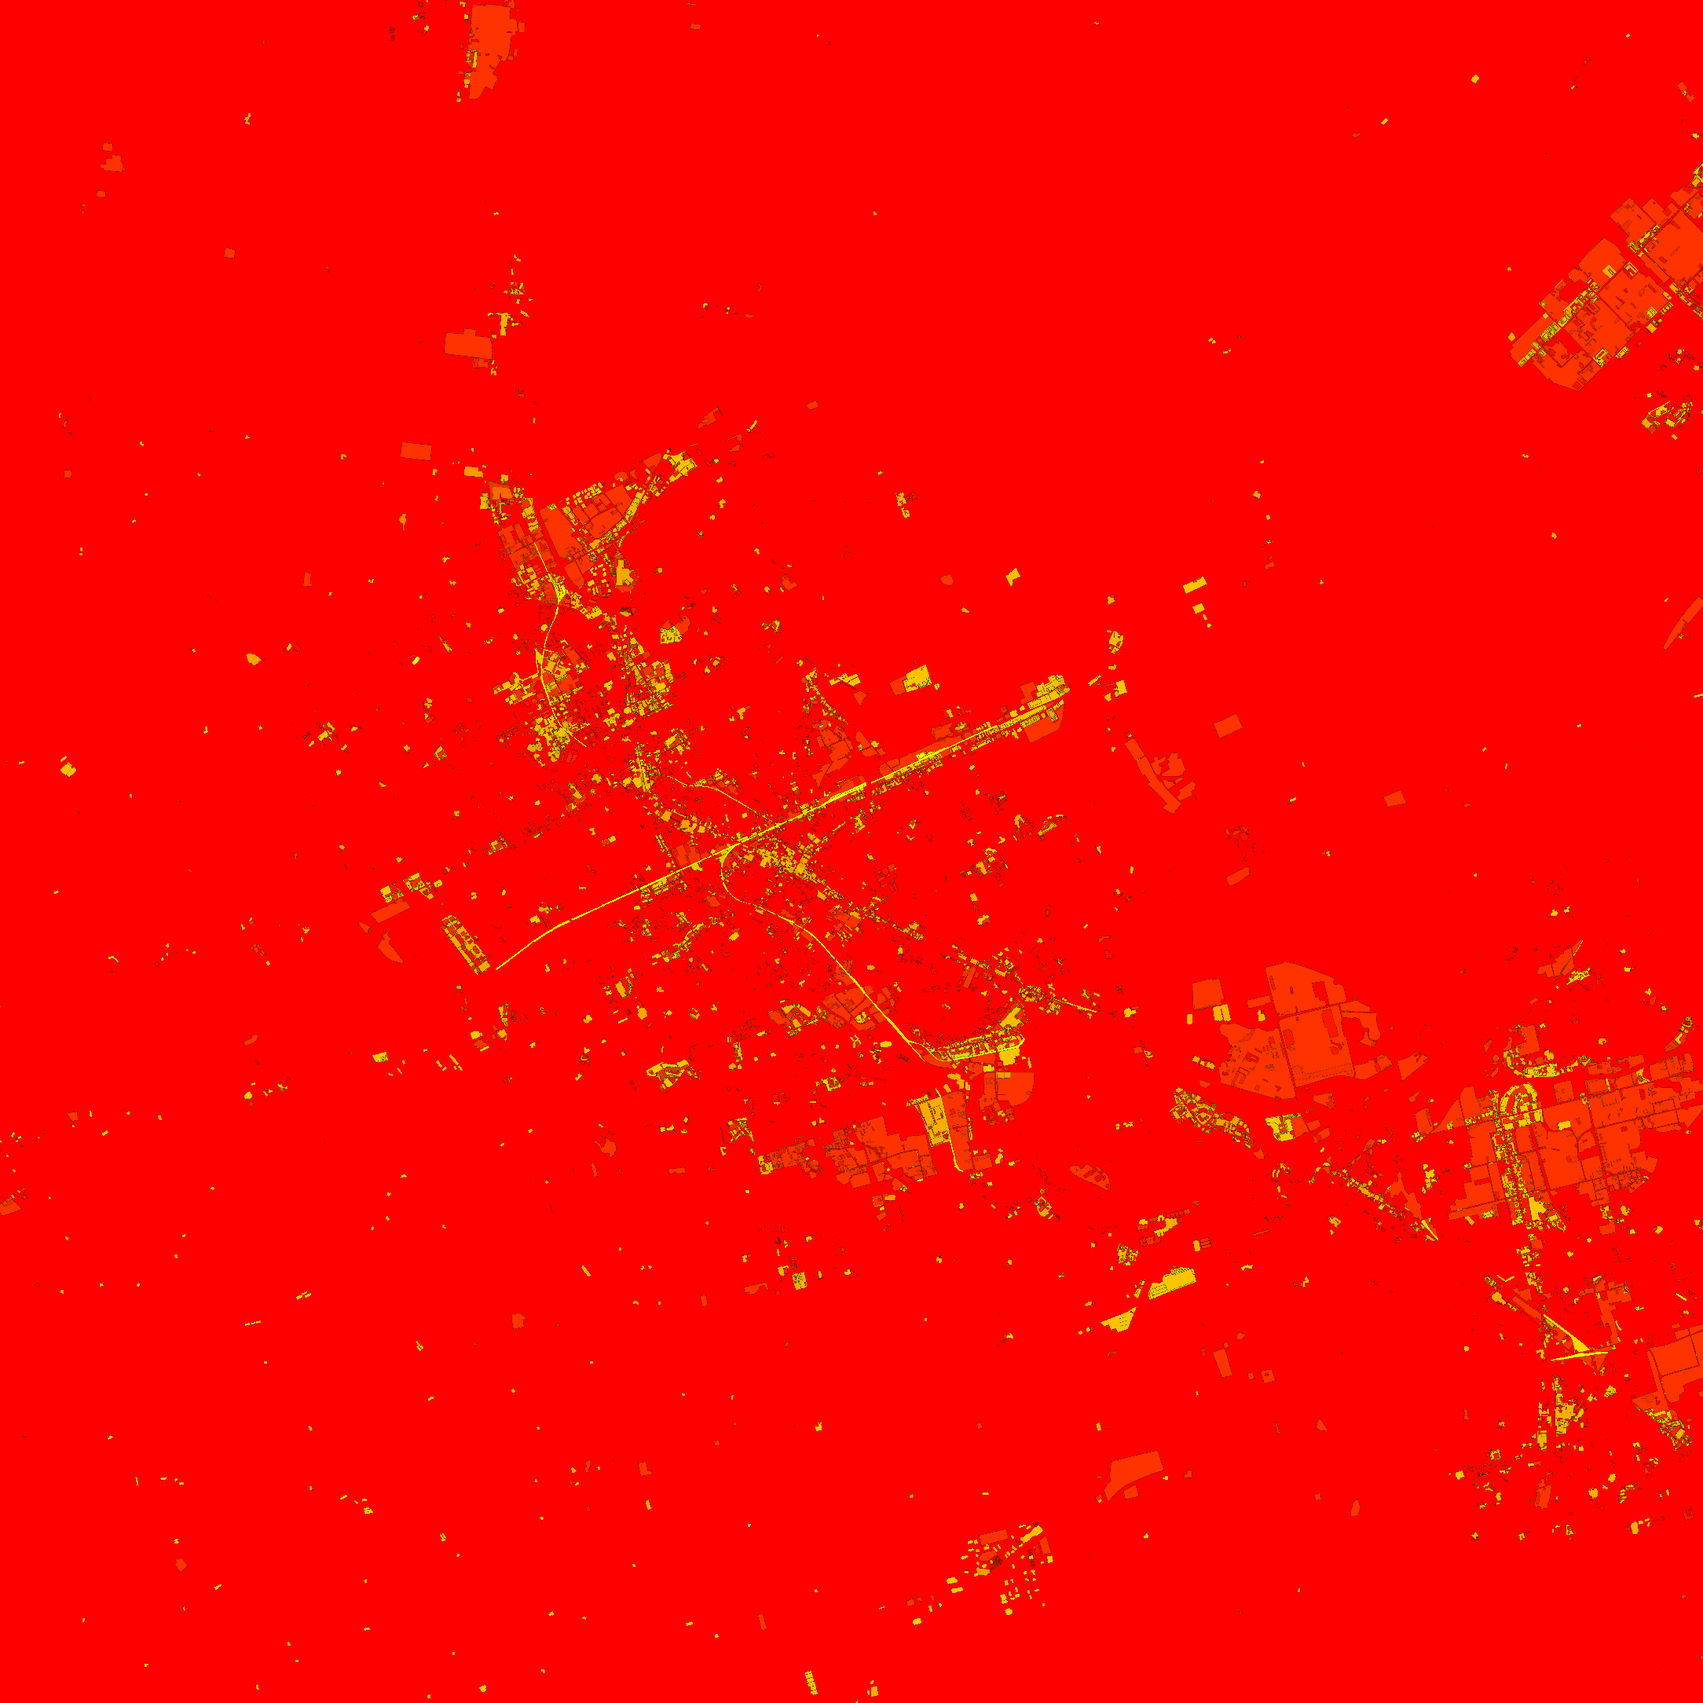
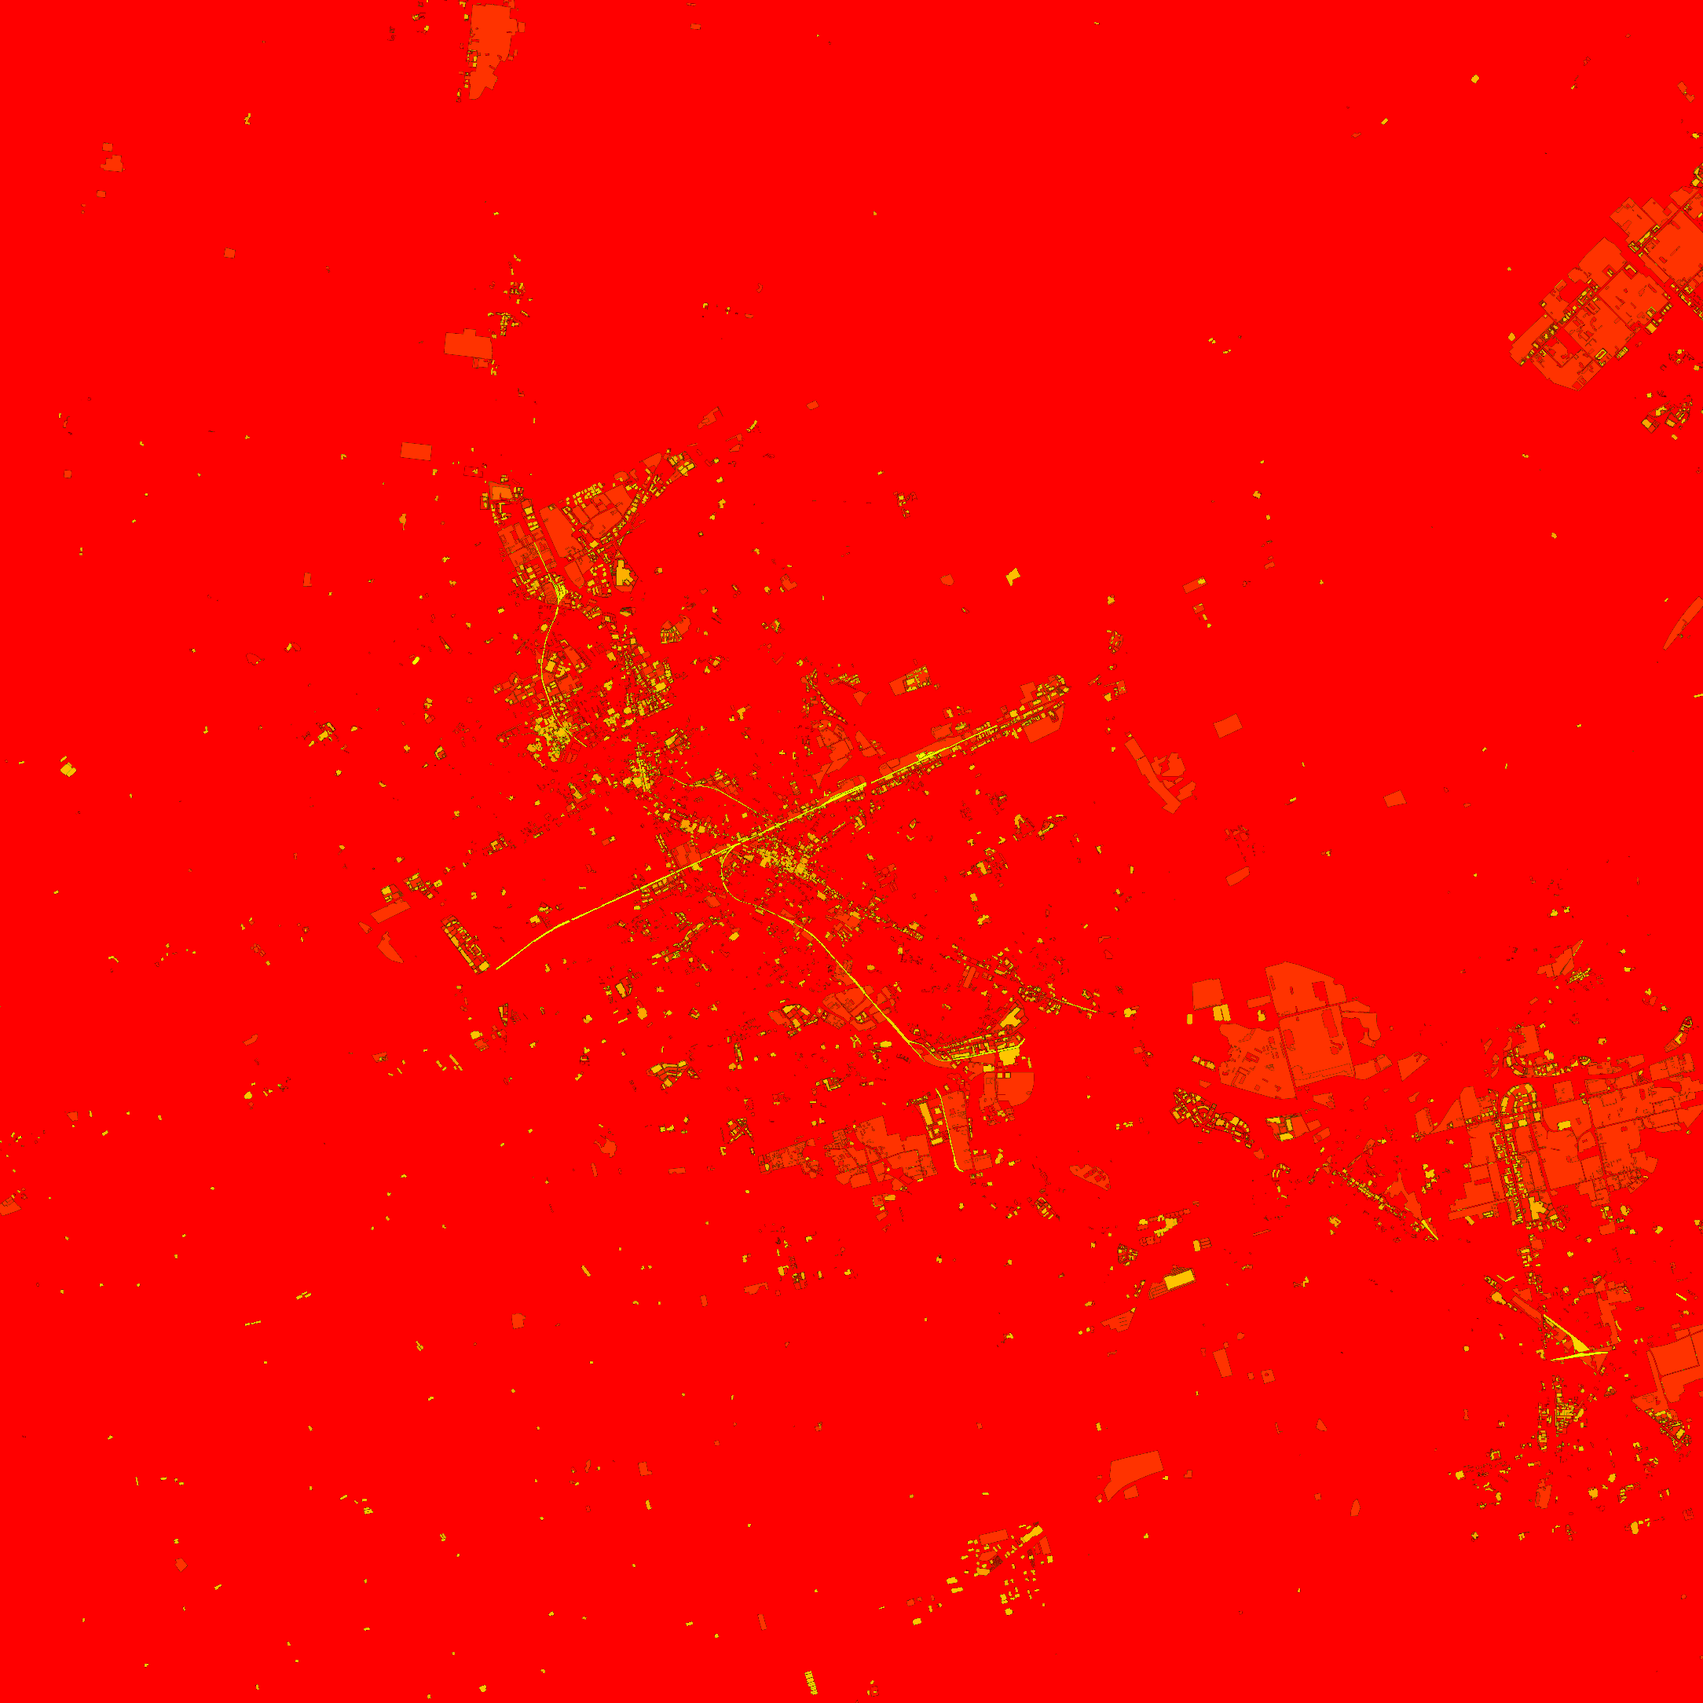
Auto KW: the new towers' skins; plaza car parks striped, with light standards and islands
Apartment towers of 8+ storeys in the student district (Columbia, Lester,
Sunview, Hickory, Regina, King N, Phillip) and downtown Kitchener take
white or light-grey precast, window wall with white slab edges, or charcoal
panel (world.js modernTower / towerLook, a few by OSM name), with full-height
stacks of a second panel colour at the corners and, on half, a stack of
coloured accent panels down the street face -- not brown brick or deep
blue curtain glass.

build_lots.py: retail/commercial landuse over 3000 m2 bakes as striped car
park in its own orientation, with a 4.5 m concrete storefront ring round
each building (mapped car parks still win): 12.5 -> 17.5 km2 of striping.
world.js lotLights: in big lots, every 13 bays on every other row seam, a
kerbed island with a light standard (two LED heads, glowing at night) and
a young tree on most (trees.js); traffic leaves those bays empty.

diff --git a/apps/autokw/src/world.js b/apps/autokw/src/world.js
@@ -341,6 +341,46 @@ const INDUSTRIAL_WALL = [
 ];
 const industrialWall = (bd) => tint(bd.seed, pickW(INDUSTRIAL_WALL, hash2(bd.seed, 133)), 0.16);
 
+// AUTO KW: the new towers. The student district round UW and Laurier
+// (Columbia, Lester, Sunview, Hickory, Regina, King N, Phillip -- ICON, Sage,
+// Luxe, One Columbia, the Houses on King) and downtown Kitchener's condos
+// (One Victoria, Charlie West, Young, DTK, City Centre) went up after 2008:
+// white and grey precast and window wall, panels in a second grey, and on
+// many a stack of coloured accent panels. [x0, x1, z0, z1] in world metres.
+const MODERN_ZONES = [[-5400, -3700, -3450, -2200], [-2100, -600, -500, 500]];
+/** An apartment tower of eight storeys or more in one of MODERN_ZONES, with no material from OSM. */
+function modernTower(bd) {
+  if (bd.style === 'campus' || bd.h < 24 || bd.kind || (bd.kw && (bd.kw.fam || bd.kw.poly || bd.kw.skip))) return false;
+  const lk = bd.look || 0;
+  if ((lk >> 2) & 7) return false;
+  if (!(lk & 32) && !(bd.kw && bd.kw.name && /Condos|Tower|House|Residence|Lofts/.test(bd.kw.name))) return false;
+  for (const [x0, x1, z0, z1] of MODERN_ZONES) if (bd.x > x0 && bd.x < x1 && bd.z > z0 && bd.z < z1) return true;
+  return false;
+}
+// white precast, light grey precast, window wall, charcoal panel
+const MODERN_FAMS = [
+  { m: 'masonry', c: [1.14, 1.14, 1.12], u: 13, v: 13 },
+  { m: 'masonry', c: [0.94, 0.94, 0.93], u: 14, v: 13.6 },
+  { m: 'glass', c: [0.66, 0.70, 0.73], u: 14, v: 13.6 },
+  { m: 'masonry', c: [0.42, 0.43, 0.45], u: 14, v: 13.6 },
+];
+// the second panel colour on each wall family, and the accents
+const MODERN_PANEL = [[0.46, 0.47, 0.49], [0.95, 0.95, 0.93], [0.93, 0.93, 0.91], [0.90, 0.90, 0.88]];
+const ACCENTS = [[0.88, 0.45, 0.16], [0.52, 0.74, 0.24], [0.78, 0.18, 0.16], [0.18, 0.48, 0.74], [0.95, 0.75, 0.15]];
+// a few by name: [family, accent index or -1]
+const TOWER_NAMED = { 'Sage II': [0, 0], 'Sage Condos I': [0, 0], 'Sage 5': [1, 0], 'Sage 6': [1, 0],
+  'Icon': [0, -1], 'Luxe Condos I': [3, -1], 'Luxe II': [3, -1], 'One Victoria': [2, -1], 'Charlie West': [0, -1],
+  'Duke Tower': [2, -1], 'Young Condos': [0, -1], 'City Centre Condos, Tower 1': [1, -1] };
+/** { fam, panel, accent|null } for a modernTower. */
+function towerLook(bd) {
+  if (bd._tl) return bd._tl;
+  const s = bd.seed, nm = bd.kw && bd.kw.name, N = nm && TOWER_NAMED[nm];
+  const p = hash2(s, 151);
+  const fam = N ? N[0] : p < 0.42 ? 0 : p < 0.66 ? 1 : p < 0.86 ? 2 : 3;
+  const ai = N ? N[1] : hash2(s, 152) < 0.5 ? Math.floor(hash2(s, 153) * ACCENTS.length) : -1;
+  return (bd._tl = { fam, panel: MODERN_PANEL[fam], accent: ai >= 0 ? ACCENTS[ai] : null });
+}
+
 // AUTO KW: where the hydro is overhead. Every arterial and regional road;
 // and the side streets of the places built before the lines went under
 // (Kitchener and Waterloo from the 1970s on buried them): downtown
@@ -4838,6 +4878,7 @@ float frLine(float o, float fw, float c, float w) {
       }
       yield; this._yt = performance.now();
       yield* this.meshProps(flat, glow, ch, cx, cz);
+      if (ch !== NO_CITY_CHUNK) this.lotLights(flat, glow, cx, cz);
       yield; this._yt = performance.now();
       yield* plantTrees(this, flat, ch, cx, cz, 1, ch === NO_CITY_CHUNK);
       this._occ = null;
@@ -7982,6 +8023,12 @@ float frLine(float o, float fw, float c, float w) {
     // grey stone/block, siding (painted), concrete/stucco, metal, glass.
     const lm = (bd.look || 0) >> 2 & 7;
     if (lm) return FAMS[[0, 2, 3, 0, 8, 4, 10, 1][lm]];
+    // The student towers round UW and Laurier and downtown Kitchener's new
+    // condos (modernTower): white and light-grey precast, a charcoal one, some
+    // window wall -- never the brown brick of the 1970s slabs, and not the
+    // deep blue curtain glass of an office tower. Their panels and accent
+    // colours are buildingDetail's (_towerPanels).
+    if (modernTower(bd)) return MODERN_FAMS[towerLook(bd).fam];
     // An apartment tower (OSM building=apartments, over ~10 storeys): the
     // student towers on Columbia, Lester, Sunview and King and the condos
     // downtown are white and grey precast with window wall (ICON, Sage, One
@@ -8766,6 +8813,9 @@ float frLine(float o, float fw, float c, float w) {
       if (h(12) < (apt ? 0.3 : 0.45)) this._balconies(flat, bd, c, h, t0, this._side(bd, (street + 2) % 4, t0.w, t0.d), floorsOf(t0, 24));
     }
 
+    // Auto KW: the new towers' panels, slab edges and accent stacks
+    if (modernTower(bd)) { this._towerPanels(flat, bd, c, h, t0, street, floorsOf(t0, 40)); note('towerPanels', street); }
+
     // --- shops: awnings over the bays, a false front ----------------------------
     if (c.plinthH > 2 && hash2(seed, 41) <= 0.55 && h(20) < 0.5 && this._awnings(flat, bd, c, h, S)) note('awnings', street);
     if (bd.style === 'lowrise' && bd.h < 9 && !glassy && c.tiers.length === 1 && h(21) < 0.28) {
@@ -8880,6 +8930,38 @@ float frLine(float o, float fw, float c, float w) {
       any = true;
     }
     return any;
+  }
+
+  /**
+   * AUTO KW: a new tower's skin (modernTower / towerLook). Precast or charcoal
+   * walls carry full-height stacks of the second panel colour at every corner;
+   * window wall carries a white slab edge at every floor. Many have one stack
+   * of coloured accent panels down the street face and its back. ~8 triangles
+   * a box, all in the chunk's flat mesh.
+   */
+  _towerPanels(flat, bd, c, h, t0, street, floors) {
+    const L = towerLook(bd), y0 = t0.y + 3.2, y1 = t0.y + t0.h - 0.4;
+    if (y1 - y0 < 8) return;
+    if (L.fam === 2) {
+      for (const y of floors) flat.box(bd.x, y - 0.3, bd.z, t0.w + 0.24, 0.32, t0.d + 0.24, bd.rot, L.panel, NOTOP);
+    } else {
+      for (let k = 0; k < 4; k++) {
+        const S = this._side(bd, k, t0.w, t0.d);
+        if (S.w < 8) continue;
+        const pw = clamp(S.w * 0.14, 1.6, 4.2);
+        // one corner of each face (the next face's other corner makes the L)
+        const [x, z] = S.off(S.w / 2 - pw / 2 + 0.1, S.d / 2 + 0.1);
+        flat.box(x, y0, z, pw, y1 - y0, 0.2, S.rot, L.panel, NOTOP);
+      }
+    }
+    if (!L.accent) return;
+    for (const k of [street, (street + 2) % 4]) {
+      const S = this._side(bd, k, t0.w, t0.d);
+      if (S.w < 10) continue;
+      const aw = clamp(S.w * 0.12, 1.4, 3.2), lx = (h(140) - 0.5) * (S.w - aw - 6);
+      const [x, z] = S.off(lx, S.d / 2 + 0.12);
+      flat.box(x, y0 + 3, z, aw, y1 - y0 - 3, 0.24, S.rot, L.accent, NOTOP);
+    }
   }
 
   /** Stacked balconies across one face: slab, underside, a glass or metal rail. */
@@ -9311,6 +9393,69 @@ float frLine(float o, float fw, float c, float w) {
    * a wire into nothing. All in the chunk's flat/glow builders: no draws.
    * Phone cost: ~170 triangles a pole with its span.
    */
+  /**
+   * AUTO KW: light standards in the big car parks. Square steel poles ~9 m
+   * on a concrete pier, a crossbar with two LED shoebox heads (the plazas,
+   * Conestoga, Fairview, the big boxes from the air and street level). On
+   * the seam between back-to-back rows of the lot's bay grid (the shader's
+   * and traffic.updateLotParked's: 2.6 m bays, 18 m modules, in the lot's
+   * frame), every 13 bays and every other module, and only where the lot
+   * carries on 20 m round the spot -- a strip mall's apron gets none. ~50
+   * triangles a pole into the chunk's flat mesh; the head glows at night.
+   */
+  lotLights(flat, glow, cx, cz) {
+    const city = this.city, seen = new Set(), x0 = cx * CHUNK, z0 = cz * CHUNK;
+    const S = cityStats.lotLights || (cityStats.lotLights = { poles: 0 });
+    const POLE = [0.36, 0.37, 0.38], PIER = [0.62, 0.61, 0.58], HEAD = [0.24, 0.25, 0.26];
+    const CURB = [0.66, 0.65, 0.62], ISLE = [0.20, 0.24, 0.12];
+    const isles = [];
+    this._lotIslands = isles; this._lotIslandsKey = this._ck;
+    for (let x = x0 + 4.5; x < x0 + CHUNK; x += 9) {
+      for (let z = z0 + 4.5; z < z0 + CHUNK; z += 9) {
+        const code = G.lotCodeAt(x, z);
+        if (!code || ((code - 1) / G.LOT_ANG | 0) !== 0) continue;   // striped parking only
+        const ang = ((code - 1) % G.LOT_ANG) / G.LOT_ANG * Math.PI;
+        const ux = Math.cos(ang), uz = Math.sin(ang);
+        const pu = x * ux + z * uz, pv = -x * uz + z * ux;
+        const iu = Math.round(pu / 33.8), iv = Math.round(pv / 36);
+        const key = code * 1e8 + iu * 1e4 + iv;
+        if (seen.has(key)) continue;
+        seen.add(key);
+        // the island's centre: the middle of bay 13 iu, on the seam
+        const cu = iu * 33.8 + 1.3, cv = iv * 36;
+        const wx = cu * ux - cv * uz, wz = cu * uz + cv * ux;
+        if (Math.floor(wx / CHUNK) !== cx || Math.floor(wz / CHUNK) !== cz) continue;
+        let big = G.lotCodeAt(wx, wz) === code;
+        for (const [du, dv] of [[20, 0], [-20, 0], [0, 14], [0, -14]]) {
+          if (!big) break;
+          big = G.lotCodeAt(wx + du * ux - dv * uz, wz + du * uz + dv * ux) === code;
+        }
+        if (!big || city.onRoad(wx, wz, 1.5) || this.inBuilding(wx, wz, 1.5) || city.jumpClear(wx, wz)
+          || this.cutDepth(wx, wz) > 0.3 || this.inDrawnLake(wx, wz)) continue;
+        const gy = G.terrainHeight(wx, wz);
+        // the kerbed island it stands in: one bay wide, across both rows
+        // (traffic.updateLotParked leaves that bay pair empty), a tree on most
+        flat.box(wx, gy - 0.25, wz, 2.3, 0.42, 10.2, ang, CURB, NOTOP);
+        flat.box(wx, gy + 0.15, wz, 2.0, 0.03, 9.9, ang, ISLE);
+        if (hash2(Math.round(wx), Math.round(wz) + 3) < 0.6) {
+          const t = hash2(Math.round(wx) + 5, Math.round(wz)) < 0.5 ? 3 : -3;
+          isles.push([wx - uz * t, wz + ux * t]);
+        }
+        flat.box(wx, gy - 0.1, wz, 0.5, 0.9, 0.5, ang, PIER, NOTOP);
+        flat.box(wx, gy + 0.8, wz, 0.2, 8.4, 0.2, ang, POLE, NOTOP);
+        flat.box(wx, gy + 9.1, wz, 2.6, 0.12, 0.12, ang, POLE);
+        for (const sg of [-1, 1]) {
+          const hx = wx + ux * sg * 1.25, hz = wz + uz * sg * 1.25;
+          flat.box(hx, gy + 8.95, hz, 0.75, 0.16, 0.5, ang, HEAD);
+          glow.box(hx, gy + 8.93, hz, 0.6, 0.03, 0.38, ang, [1.0, 0.97, 0.9]);
+        }
+        city.addObstacle(this._ck, wx, wz, 0.35);
+        for (const t of [-3.6, 3.6]) city.addObstacle(this._ck, wx - uz * t, wz + ux * t, 1.1);
+        S.poles++;
+      }
+    }
+  }
+
   hydroLine(flat, glow, e, a, b, px, pz, hydro, onCorner, ei, inPit) {
     const city = this.city, SPAN = 40;
     // canonical direction, so both orientations of a street agree

diff --git a/apps/autokw/src/trees.js b/apps/autokw/src/trees.js
@@ -1362,5 +1362,13 @@ export function* plantTrees(world, flat, ch, cx, cz, lod, pooled = false) {
       }
     }
   }
+  // AUTO KW: the car parks' kerbed islands (world.lotLights), one tree each:
+  // a young broadleaf, crown kept small so it overhangs no bay
+  if (lod === 1 && world._lotIslands && world._lotIslandsKey === ck) {
+    for (const [x, z] of world._lotIslands) {
+      const r = hash2(Math.round(x * 5) + 7, Math.round(z * 5) + 9);
+      plant(x, z, 6 + 3 * r, 2.0 + 0.8 * r, BROAD, T_STREET, 'street');
+    }
+  }
   world._treeRecs = recs.length ? Float32Array.from(recs) : null;
 }

diff --git a/apps/autokw/src/traffic.js b/apps/autokw/src/traffic.js
@@ -873,6 +873,9 @@ export class TrafficSystem {
         const pu = x * ux + z * uz, pv = -x * uz + z * ux;
         const bu = Math.floor(pu / 2.6), m = Math.floor(pv / 18);
         const row = ((pv % 18) + 18) % 18 < 9 ? 0 : 1;
+        // Auto KW: every 13th bay either side of every other seam is a kerbed
+        // island with a light standard (world.lotLights)
+        if (((bu % 13) + 13) % 13 === 0 && (row ? ((m + 1) % 2 + 2) % 2 === 0 : ((m % 2) + 2) % 2 === 0)) continue;
         const key = `L${bu},${m},${row},${code}`;
         if (tried.has(key)) continue;
         tried.add(key);

diff --git a/tools/kw/build_lots.py b/tools/kw/build_lots.py
@@ -68,7 +68,17 @@ ANG = 50   # geo.js LOT_ANG
 # Drawn in this order, so later kinds win where polygons overlap: a car park
 # mapped inside a retail landuse is a car park, a plaza inside a commercial
 # block is a plaza.
-ORDER = ["hard", "rail", "asphalt_landuse", "aisle", "asphalt", "courts", "plaza", "parking"]
+ORDER = ["hard", "lu_parking", "rail", "asphalt_landuse", "aisle", "asphalt", "courts", "plaza", "parking"]
+# AUTO KW: a plaza's car park is mostly NOT mapped as one. Waterloo Region's
+# retail and commercial landuse is the plazas and big boxes -- buildings
+# standing in striped tarmac -- and drawn as concrete hardstanding it read as
+# a bare slab from the street and the air. A retail/commercial polygon this
+# big is striped car park in its own orientation, with a concrete sidewalk
+# STOREFRONT_M wide round every building in it (a mapped car park, square or
+# plaza still wins). Smaller ones (a corner lot, a downtown frontage) stay hard.
+LU_PARKING = {"retail", "commercial"}
+LU_PARKING_M2 = 3000
+STOREFRONT_M = 4.5
 # Only these may pave over the park mask. A park's own car park is real tarmac,
 # and so is a court or a square mapped as a park with a paved `surface`; a
 # `landuse=commercial` polygon drawn loosely over a green is not.
@@ -220,6 +230,23 @@ def aprons():
     return g
 
 
+def storefronts():
+    """A concrete ring STOREFRONT_M wide round every non-house building (lu_parking's sidewalks)."""
+    raw = json.load(open(os.path.join(DATA, "raw_buildings.json")))["buildings"]
+    img = Image.new("L", (N, N), 0)
+    d = ImageDraw.Draw(img)
+    w = max(1, round(2 * STOREFRONT_M / STEP))
+    for p in raw:
+        a = area(p["o"])
+        if a < 150 or p.get("bt") in ("house", "detached", "semidetached_house", "garage", "shed", "roof"):
+            continue
+        c = code("hard", orientation(p["o"]))
+        px = to_px(p["o"])
+        d.polygon(px, fill=c)
+        d.line(px + [px[0]], fill=c, width=w, joint="curve")
+    return np.asarray(img, dtype=np.uint8)
+
+
 # A downtown "park" is usually a paved square. Occidental Square, Westlake Park
 # and Pioneer Square are all `leisure=park` with no surface tag, so the only
 # thing that says they are hardscape is where they are: small, and ringed by
@@ -270,7 +297,9 @@ def bake(wet, green):
             continue
         if k == "hard" and p.get("lu") == "railway":
             k = "rail"   # an older raw_lots.json called rail land `hard`
-        if k == "asphalt" and p.get("lu"):
+        if k == "hard" and p.get("lu") in LU_PARKING and area(p["o"]) >= LU_PARKING_M2:
+            groups["lu_parking"].append(p)
+        elif k == "asphalt" and p.get("lu"):
             groups["asphalt_landuse"].append(p)
         elif k == "asphalt" and p.get("sf") in PAVED_SURFACE and p.get("le"):
             if area(p["o"]) <= SURFACE_MAX_M2:
@@ -286,7 +315,7 @@ def bake(wet, green):
     stats = {}
     layer_over = Image.new("L", (N, N), 0)
     for g in ORDER:
-        kind = "asphalt" if g in ("asphalt_landuse", "aisle", "courts") else g
+        kind = "asphalt" if g in ("asphalt_landuse", "aisle", "courts") else "parking" if g == "lu_parking" else g
         dst = layer_over if g in OVER_GREEN else None
         n = 0
         if g == "aisle":
@@ -310,6 +339,17 @@ def bake(wet, green):
             merged = np.where(aisle_any > 0, aisle_any,
                               np.where((aisle_dev > 0) & (cur > 0), aisle_dev, cur))
             img = Image.fromarray(merged.astype(np.uint8), "L")
+        elif g == "lu_parking":
+            # its own layer, so the storefront sidewalks can be cut into it alone
+            lp = Image.new("L", (N, N), 0)
+            for p in groups[g]:
+                paint(lp, p, code("parking", orientation(p["o"])))
+                n += 1
+            lp = np.asarray(lp, dtype=np.uint8)
+            walk = storefronts()
+            lp = np.where((lp > 0) & (walk > 0), walk, lp).astype(np.uint8)
+            cur = np.asarray(img, dtype=np.uint8)
+            img = Image.fromarray(np.where(lp > 0, lp, cur).astype(np.uint8), "L")
         else:
             for p in groups[g]:
                 if area(p["o"]) < 60:
